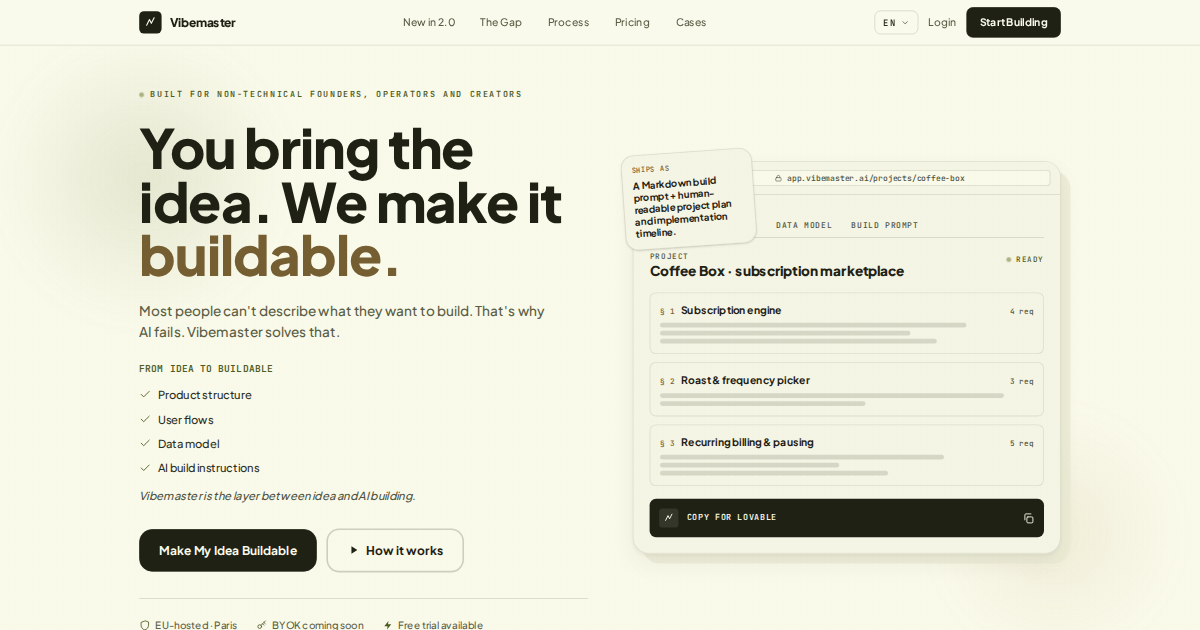
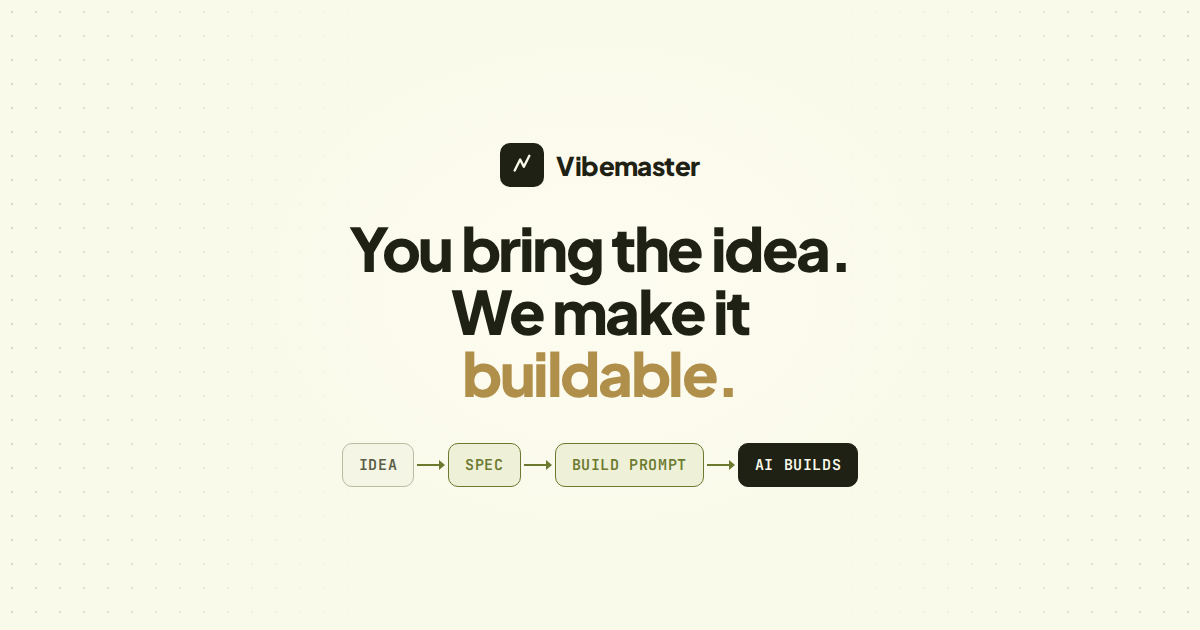
Redesign social preview image to survive square crops
The old og-image was a hero screenshot; Threads crops previews to a centred
square, cutting off the headline. New image keeps logo, headline and a small
idea-to-build flow inside the centre 630px safe zone. Source HTML and a
Playwright render script live in scripts/og-image/. Bump ?v=2 on the image
URL so platforms refetch it.

Claude-Session: https://claude.ai/code/session_01SmsNSX1jxHPVLFXH58ZhiP

diff --git a/scripts/og-image/og-image.html b/scripts/og-image/og-image.html
@@ -1,0 +1,93 @@
+<!DOCTYPE html>
+<!--
+  Source for assets/images/og-image.png (1200x630 social preview).
+  Render with: node scripts/og-image/render.mjs
+
+  Safe zone: Threads, WhatsApp and some other apps crop the preview to a
+  centred square. Everything important stays inside the middle ~630px
+  (dashed guide visible with ?guide). The side areas are decoration only.
+-->
+<html lang="en">
+<head>
+<meta charset="utf-8"/>
+<link href="https://fonts.googleapis.com/css2?family=Plus+Jakarta+Sans:wght@500;700;800&family=JetBrains+Mono:wght@500;600&display=block" rel="stylesheet"/>
+<style>
+  :root {
+    --ivory: #FAFAEB; --bone: #F5F5E6; --sand: #EBEBD5; --mist: #B8BCA3;
+    --ink: #1E2113; --moss: #5A5E45; --olive: #6B7A2F; --bronze: #B08F4A;
+  }
+  * { box-sizing: border-box; margin: 0; padding: 0; }
+  html, body { width: 1200px; height: 630px; overflow: hidden; }
+  body {
+    background:
+      radial-gradient(520px 380px at 50% 45%, #FDFCF0 0%, rgba(253,252,240,0) 70%),
+      var(--ivory);
+    font-family: 'Plus Jakarta Sans', sans-serif;
+    color: var(--ink);
+    position: relative;
+  }
+  /* faint dot grid on the sides, fades out towards the centre */
+  body::before {
+    content: ""; position: absolute; inset: 0;
+    background-image: radial-gradient(var(--mist) 1.2px, transparent 1.3px);
+    background-size: 24px 24px;
+    -webkit-mask-image: linear-gradient(90deg, #000 0%, transparent 32%, transparent 68%, #000 100%);
+    mask-image: linear-gradient(90deg, #000 0%, transparent 32%, transparent 68%, #000 100%);
+    opacity: .55;
+  }
+  .safe {
+    position: absolute; top: 0; bottom: 0; left: 285px; width: 630px;
+    display: flex; flex-direction: column; align-items: center; justify-content: center;
+    text-align: center;
+  }
+  .guide .safe { outline: 2px dashed #B4412A; }
+
+  .brand { display: flex; align-items: center; gap: 12px; margin-bottom: 30px; }
+  .mark {
+    width: 44px; height: 44px; border-radius: 10px; background: var(--ink);
+    display: flex; align-items: center; justify-content: center;
+  }
+  .brand span { font-size: 26px; font-weight: 800; letter-spacing: -0.02em; }
+
+  h1 {
+    font-size: 60px; line-height: 1.04; font-weight: 800; letter-spacing: -0.04em;
+  }
+  h1 em { font-style: normal; color: var(--bronze); }
+
+  .flow { display: flex; align-items: center; margin-top: 38px; }
+  .node {
+    font-family: 'JetBrains Mono', monospace; font-size: 15px; font-weight: 600;
+    letter-spacing: .04em; text-transform: uppercase;
+    padding: 11px 16px; border-radius: 10px;
+    background: var(--bone); border: 1.5px solid var(--mist); color: var(--moss);
+    white-space: nowrap;
+  }
+  .node.mid { background: #EEF0D8; border-color: var(--olive); color: var(--olive); }
+  .node.end { background: var(--ink); border-color: var(--ink); color: var(--ivory); }
+  .arrow { width: 34px; height: 14px; flex: none; }
+</style>
+</head>
+<body>
+  <div class="safe">
+    <div class="brand">
+      <div class="mark">
+        <svg width="22" height="22" viewBox="0 0 24 24" fill="none" stroke="#FAFAEB" stroke-width="2.6" stroke-linecap="round" stroke-linejoin="round"><path d="M4 18 10 6l4 8 6-12"/></svg>
+      </div>
+      <span>Vibemaster</span>
+    </div>
+
+    <h1>You bring the idea.<br/>We make it<br/><em>buildable.</em></h1>
+
+    <div class="flow">
+      <div class="node">Idea</div>
+      <svg class="arrow" viewBox="0 0 34 14"><path d="M3 7h24" stroke="#6B7A2F" stroke-width="2"/><path d="M25 2l6 5-6 5z" fill="#6B7A2F"/></svg>
+      <div class="node mid">Spec</div>
+      <svg class="arrow" viewBox="0 0 34 14"><path d="M3 7h24" stroke="#6B7A2F" stroke-width="2"/><path d="M25 2l6 5-6 5z" fill="#6B7A2F"/></svg>
+      <div class="node mid">Build prompt</div>
+      <svg class="arrow" viewBox="0 0 34 14"><path d="M3 7h24" stroke="#6B7A2F" stroke-width="2"/><path d="M25 2l6 5-6 5z" fill="#6B7A2F"/></svg>
+      <div class="node end">AI builds</div>
+    </div>
+  </div>
+  <script>if (location.search.includes('guide')) document.body.classList.add('guide');</script>
+</body>
+</html>

diff --git a/index.html b/index.html
@@ -12,13 +12,13 @@
   <meta property="og:url" content="https://vibemaster.ai/" />
   <meta property="og:title" content="Vibemaster — Turn your idea into a spec AI can build" />
   <meta property="og:description" content="Vibemaster interviews you, writes the product spec, and hands it to Lovable, Cursor, Bolt or Replit — no vague prompts, no broken builds." />
-  <meta property="og:image" content="https://vibemaster.ai/assets/images/og-image.png" />
+  <meta property="og:image" content="https://vibemaster.ai/assets/images/og-image.png?v=2" />
   <meta property="og:image:width" content="1200" />
   <meta property="og:image:height" content="630" />
   <meta name="twitter:card" content="summary_large_image" />
   <meta name="twitter:title" content="Vibemaster — Turn your idea into a spec AI can build" />
   <meta name="twitter:description" content="Vibemaster interviews you, writes the product spec, and hands it to Lovable, Cursor, Bolt or Replit — no vague prompts, no broken builds." />
-  <meta name="twitter:image" content="https://vibemaster.ai/assets/images/og-image.png" />
+  <meta name="twitter:image" content="https://vibemaster.ai/assets/images/og-image.png?v=2" />
   <script type="application/ld+json">
   {
     "@context": "https://schema.org",

diff --git a/scripts/README.md b/scripts/README.md
@@ -58,3 +58,19 @@ Ask Claude something like:
 
 Claude can then cross-reference the opportunities in the report against
 the actual HTML/CSS/JS in this repo.
+
+## Social preview image (`og-image/`)
+
+`og-image/og-image.html` is the source for `assets/images/og-image.png`
+(1200×630, used by `og:image` / `twitter:image`). Everything important sits
+in the centred 630px safe zone, because Threads and similar apps crop the
+preview to a square.
+
+```bash
+npm i -D playwright && npx playwright install chromium
+node scripts/og-image/render.mjs          # writes assets/images/og-image.png
+node scripts/og-image/render.mjs --guide  # preview with the safe zone outlined
+```
+
+After changing the image, bump `?v=` on the `og:image` / `twitter:image`
+URLs in `index.html` so social platforms fetch the new version.
